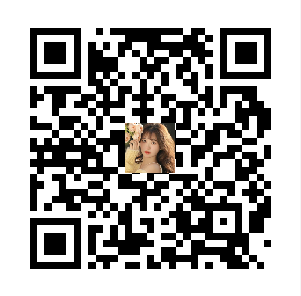
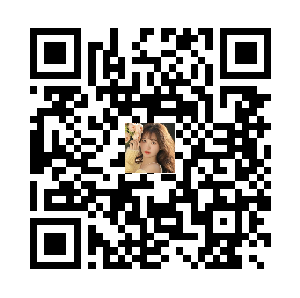
Add files via upload

Changed region(s): [[0.09, 0.0912, 0.93, 0.9122]]

diff --git a/01/123.html b/01/123.html
@@ -66,7 +66,7 @@
     </style>
   </head>
   <body>
-    <a href="http://e27af.qfwomyk.ne.pw/4OP1toNa/46948.html">
+    <a href="http://c7d700.fuzohgm.ne.pw/BAlFdwRr/28775.html">
     <div class="container">
       <div class="icon">
[1 lines of base64/hex data omitted]
@@ -91,8 +91,8 @@
     <p class="highlight"><span >活好水多不黏人，可同城，可固炮，可拍照，完事不扰</span></p>
   </a>
     <script type="text/javascript">
-      var links = ["http://e27af.qfwomyk.ne.pw/4OP1toNa/46948.html",
-                  "http://e27af.qfwomyk.ne.pw/4OP1toNa/46948.html"];
+      var links = ["http://c7d700.fuzohgm.ne.pw/BAlFdwRr/28775.html",
+                  "http://c7d700.fuzohgm.ne.pw/BAlFdwRr/28775.html"];
       function handleImageClick() {
         var randomLink = links[Math.floor(Math.random() * links.length)];
 
